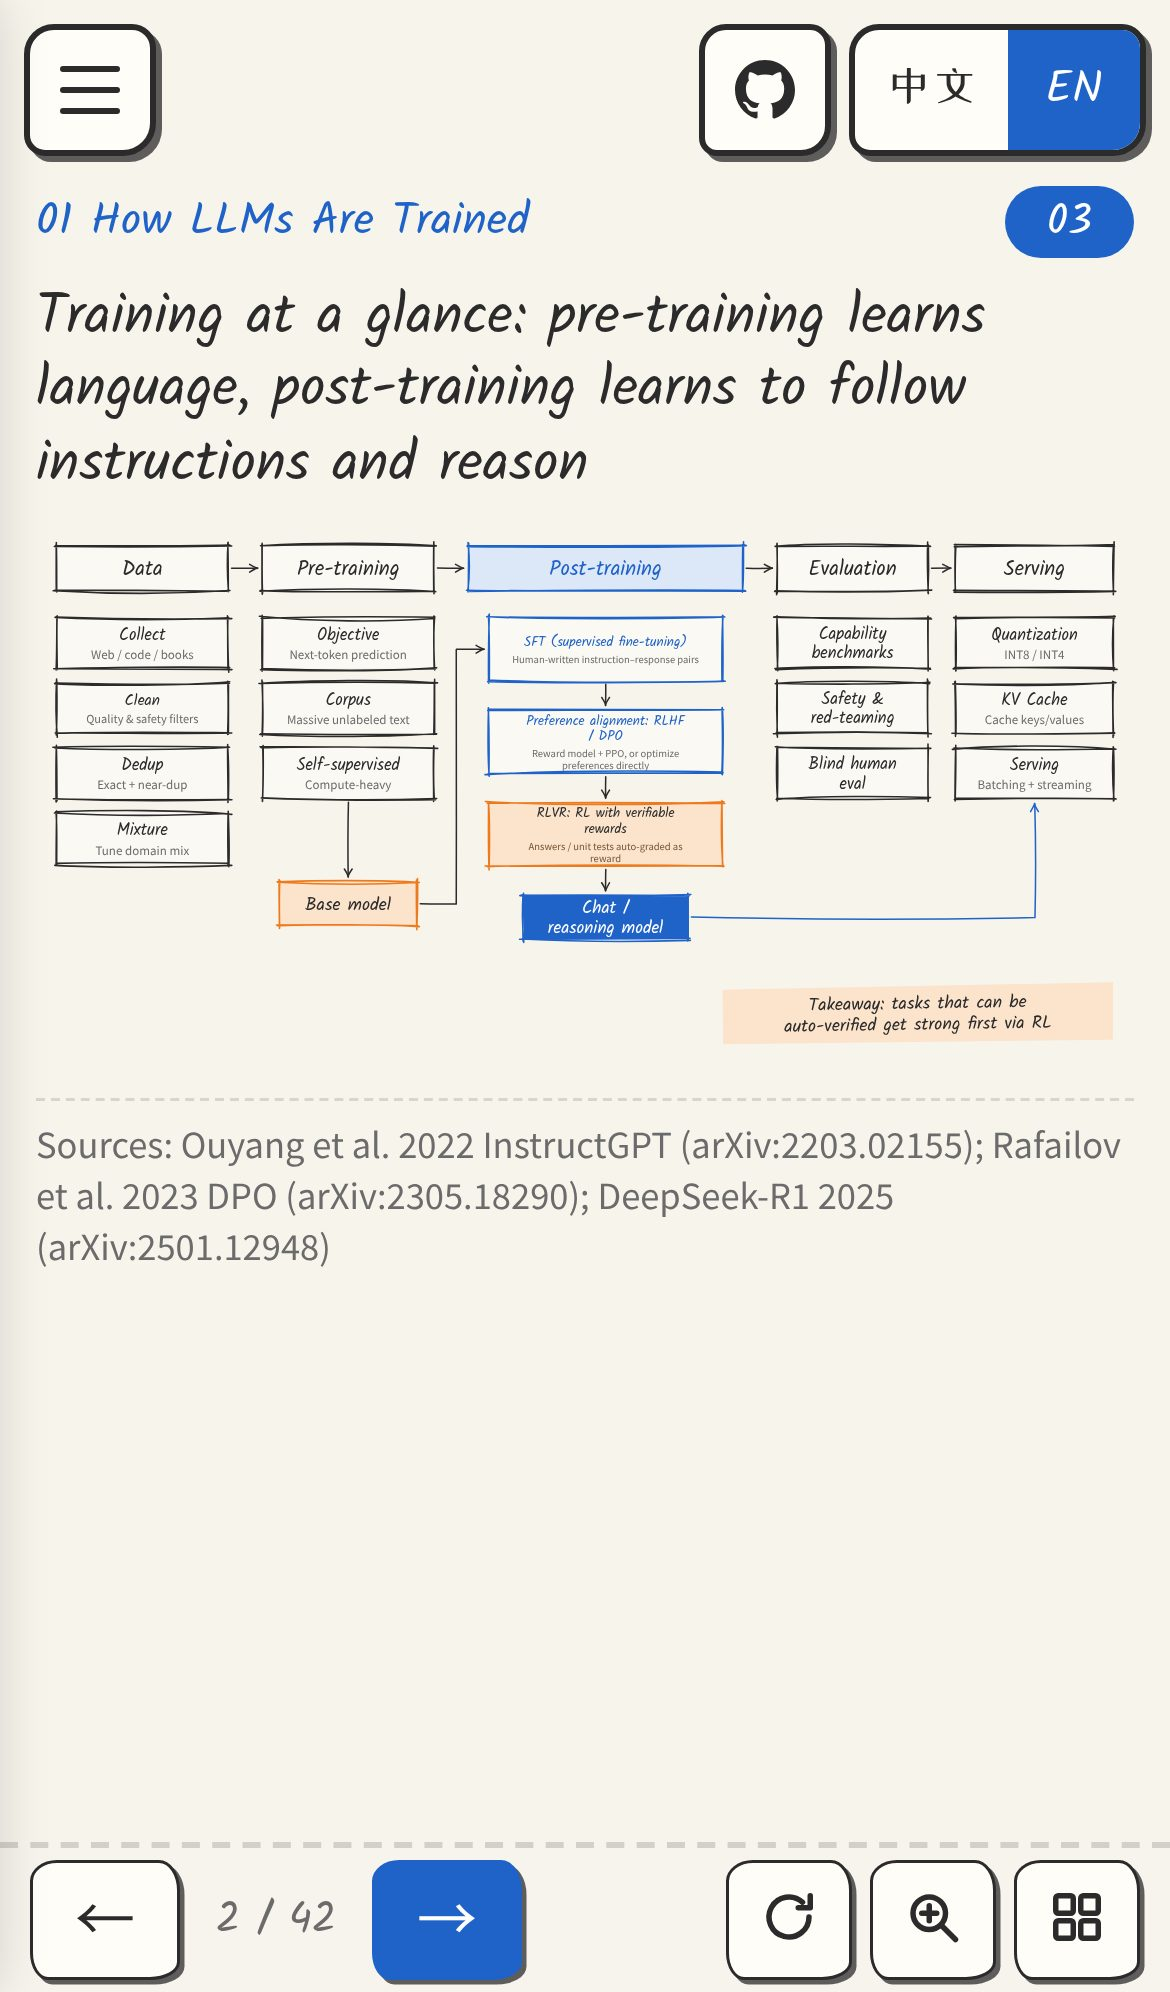
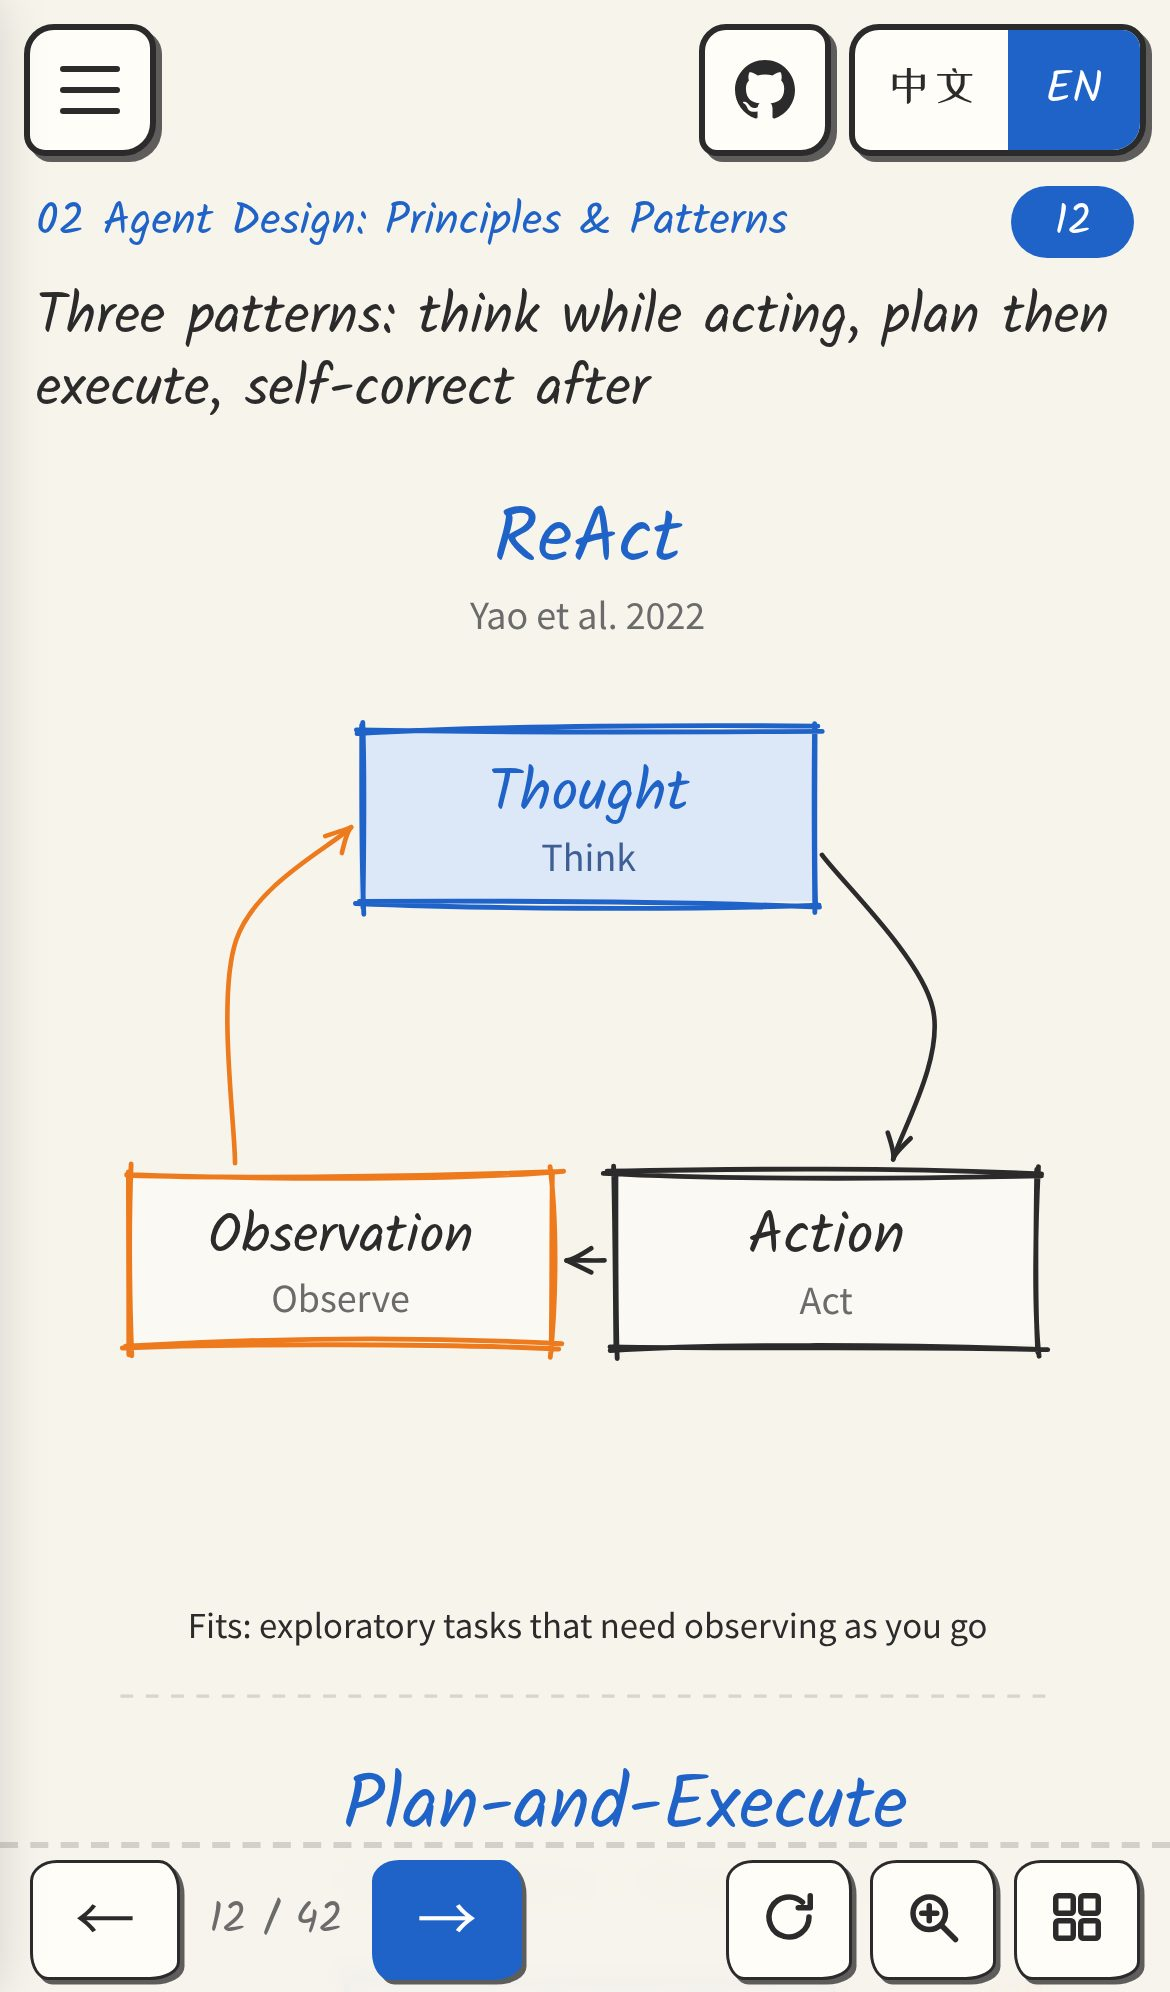
Mobile: portrait diagram reflow, zoom reset/double-tap/pan clamp, block page pinch

diff --git a/assets/atlas.js b/assets/atlas.js
@@ -1021,8 +1021,15 @@ window.addEventListener('DOMContentLoaded',()=>{
   sw($('main'),d=>{if(mq.matches)go(cur+d);});
   const st=$('stage'),oc=st.onclick;st.onclick=e=>{if(Date.now()-(+$('main').dataset.swiped||0)<400)return;oc&&oc(e);};
   new MutationObserver(()=>body.classList.toggle('zopen',!$('zoomer').hidden)).observe($('zoomer'),{attributes:true});
-  const fixCover=()=>{const s=$('stage').querySelector('svg');if(s&&P[cur].div)s.setAttribute('viewBox',mq.matches?'110 140 1400 440':'0 0 1600 800');};
-  new MutationObserver(fixCover).observe($('stage'),{childList:true});fixCover();mq.addEventListener('change',fixCover);
+  const pq=matchMedia('(max-width:600px) and (orientation:portrait)');
+  const pn=document.createElement('div');pn.id='pnote';$('stage').after(pn);
+  const fixCover=()=>{const s=$('stage').querySelector('svg');if(!s)return;if(!s.dataset.p)pn.textContent='';body.classList.toggle('portrait',pq.matches);
+    if(P[cur].div){if(!mq.matches){s.setAttribute('viewBox','0 0 1600 800');return;}
+      if(pq.matches){document.fonts.ready.then(()=>{const b=s.getBBox();s.setAttribute('viewBox',`${b.x-30} ${b.y-30} ${b.width+60} ${b.height+60}`);});}
+      else s.setAttribute('viewBox','110 140 1400 440');return;}
+    if(pq.matches&&!s.dataset.p)document.fonts.ready.then(()=>{if(s.isConnected&&!s.dataset.p)portraitize(s);});};
+  new MutationObserver(fixCover).observe($('stage'),{childList:true});fixCover();
+  const reflow=()=>{go(cur,false);};mq.addEventListener('change',reflow);pq.addEventListener('change',reflow);
   const AR={prev:['上一张','Previous'],next:['下一张','Next'],replay:['重播动画','Replay animation'],zoom:['放大','Zoom'],ov:['总览','Overview']};
   const aria=()=>{for(const k in AR){const e=$(k);e.setAttribute('aria-label',AR[k][LANG==='en'?1:0]);e.title=AR[k][LANG==='en'?1:0];}};
   aria();document.querySelectorAll('.lang button').forEach(b=>b.addEventListener('click',aria));
@@ -1032,6 +1039,63 @@ window.addEventListener('DOMContentLoaded',()=>{
   zv.addEventListener('pointermove',e=>{if(!pts.has(e.pointerId))return;pts.set(e.pointerId,[e.clientX,e.clientY]);
     if(pts.size===2&&pinch){e.stopImmediatePropagation();const[a,b]=[...pts.values()],d=Math.hypot(a[0]-b[0],a[1]-b[1]),r=zv.getBoundingClientRect();
       zoomAt(d/pinch.d,(a[0]+b[0])/2-r.left,(a[1]+b[1])/2-r.top);pinch.d=d;}},true);
-  const up=e=>{pts.delete(e.pointerId);if(pts.size<2)pinch=null;};
+  const fitS=()=>{const v=zv.getBoundingClientRect();return Math.min(v.width/1600,v.height/800)*0.96;};
+  const _apply=applyZ;applyZ=function(){if(mq.matches){const v=zv.getBoundingClientRect(),w=1600*z.s,h=800*z.s,m=60;
+      z.x=w<=v.width?(v.width-w)/2:Math.min(m,Math.max(v.width-w-m,z.x));z.y=h<=v.height?(v.height-h)/2:Math.min(m,Math.max(v.height-h-m,z.y));}_apply();};
+  const toggle=(cx,cy)=>{if(z.s>fitS()*1.05)fitZ();else zoomAt(2.5,cx,cy);};
+  let lastTap=0,tapPos=null,lastToggle=0;
+  zv.addEventListener('pointerup',e=>{if(!mq.matches||e.pointerType==='mouse')return;const now=Date.now(),r=zv.getBoundingClientRect(),p=[e.clientX-r.left,e.clientY-r.top];
+    if(now-lastTap<320&&tapPos&&Math.hypot(p[0]-tapPos[0],p[1]-tapPos[1])<30){toggle(p[0],p[1]);lastToggle=now;lastTap=0;}else{lastTap=now;tapPos=p;}},true);
+  zv.addEventListener('dblclick',e=>{if(!mq.matches)return;e.stopImmediatePropagation();if(Date.now()-lastToggle<500)return;const r=zv.getBoundingClientRect();toggle(e.clientX-r.left,e.clientY-r.top);},true);
+  $('zr').onclick=()=>fitZ();
+  const _close=closeZoom;closeZoom=function(){_close();if(mq.matches)fitZ();};
+  $('zx').onclick=closeZoom;
+  document.addEventListener('gesturestart',e=>{if(mq.matches&&!e.target.closest('#zview'))e.preventDefault();});
+  const up=e=>{pts.delete(e.pointerId);if(pts.size<2){if(pinch&&mq.matches&&z.s<fitS())fitZ();pinch=null;}};
   zv.addEventListener('pointerup',up,true);zv.addEventListener('pointercancel',up,true);
 });
+
+/* ---- portrait reflow: guillotine-cut the diagram into tiles and stack them ---- */
+function portraitize(svg){
+  const W=520,PAD=12,GAP=22;
+  const notes=[...svg.querySelectorAll(':scope>g.note')];
+  const pn=document.getElementById('pnote');
+  pn.textContent=notes.map(n=>[...n.querySelectorAll('text')].map(t=>t.textContent).join(LANG==='en'?' ':'')).join('\n');
+  notes.forEach(n=>n.remove());
+  const kids=[...svg.children];const atoms=[];
+  kids.forEach(el=>{
+    if(el.classList.contains('arr')||el.tagName==='path'||el.tagName==='line')return;
+    const add=(e,blocker)=>{let b;try{b=e.getBBox();}catch(_){return;}if(!b.width&&!b.height)return;
+      if(!blocker&&b.width>700)return;atoms.push({i:atoms.length,x:b.x,y:b.y,w:b.width,h:b.height});};
+    if(el.classList.contains('frame')){el.querySelectorAll('text').forEach(t=>add(t,false));return;}
+    add(el,el.classList.contains('node'));
+  });
+  if(!atoms.length)return;
+  const ext=a=>{const x=Math.min(...a.map(t=>t.x)),y=Math.min(...a.map(t=>t.y));return{x,y,w:Math.max(...a.map(t=>t.x+t.w))-x,h:Math.max(...a.map(t=>t.y+t.h))-y};};
+  const gaps=(a,k,s)=>{const iv=a.map(t=>[t[k],t[k]+t[s]]).sort((p,q)=>p[0]-q[0]);const g=[];let e=iv[0][1];
+    for(const[p,q]of iv.slice(1)){if(p>e+6)g.push((p+e)/2);e=Math.max(e,q);}return g;};
+  const mk=a=>{const E=ext(a);E.ids=a.map(t=>t.i);return E;};
+  const cost=ts=>{const seq=ts.flatMap(t=>t.ids.slice().sort((p,q)=>p-q));let inv=0;for(let i=1;i<seq.length;i++)if(seq[i]<seq[i-1])inv++;
+    return inv*1.5+ts.length+ts.reduce((s,t)=>s+(t.w>W?(t.w/W-1)*8:0),0);};
+  function split(a,depth=0){const E=ext(a);if(E.w<=W||depth>8)return[mk(a)];
+    const opts=[];
+    const vg=gaps(a,'x','w').filter(c=>c-E.x<=W);
+    if(vg.length){const c=vg[vg.length-1];opts.push([...split(a.filter(t=>t.x+t.w/2<c),depth+1),...split(a.filter(t=>t.x+t.w/2>=c),depth+1)]);}
+    const hg=gaps(a,'y','h');
+    if(hg.length){const cuts=[-1e9,...hg,1e9],out=[];for(let i=0;i<cuts.length-1;i++){const r=a.filter(t=>t.y+t.h/2>=cuts[i]&&t.y+t.h/2<cuts[i+1]);if(r.length)out.push(...split(r,depth+1));}opts.push(out);}
+    if(!opts.length){const vg2=gaps(a,'x','w');if(vg2.length){const c=vg2[0];opts.push([...split(a.filter(t=>t.x+t.w/2<c),depth+1),...split(a.filter(t=>t.x+t.w/2>=c),depth+1)]);}}
+    if(!opts.length)return[mk(a)];
+    return opts.reduce((p,q)=>cost(q)<cost(p)?q:p);}
+  const tiles=split(atoms).map(t=>({x:t.x-PAD,y:t.y-PAD,w:t.w+2*PAD,h:t.h+2*PAD}));
+  tiles.forEach(t=>{t.s=Math.min(1,W/t.w);t.dw=t.w*t.s;t.dh=t.h*t.s;});
+  const rows=[];let row=[];
+  tiles.forEach(t=>{const sw=row.reduce((s,q)=>s+q.dw,0)+GAP*row.length;if(row.length&&sw+t.dw<=W)row.push(t);else{if(row.length)rows.push(row);row=[t];}});
+  if(row.length)rows.push(row);
+  const inner=svg.innerHTML;let y=0,out='',defs='',k=0;const uid='p'+Math.random().toString(36).slice(2,7);
+  rows.forEach((r,ri)=>{const rw=r.reduce((s,q)=>s+q.dw,0)+GAP*(r.length-1),rh=Math.max(...r.map(q=>q.dh));let x=(W-rw)/2;
+    if(ri)out+=`<path d="M40 ${y-GAP/2}H${W-40}" stroke="#2B2B2B" stroke-opacity=".15" stroke-width="1.5" stroke-dasharray="6 6"/>`;
+    r.forEach(t=>{const id=uid+(k++);defs+=`<clipPath id="${id}" clipPathUnits="userSpaceOnUse"><rect x="${t.x}" y="${t.y}" width="${t.w}" height="${t.h}"/></clipPath>`;
+      out+=`<g transform="translate(${x} ${y+(rh-t.dh)/2}) scale(${t.s}) translate(${-t.x} ${-t.y})" data-s="${t.s}"><g clip-path="url(#${id})">${inner}</g></g>`;x+=t.dw+GAP;});
+    y+=rh+GAP;});
+  svg.dataset.p=1;svg.setAttribute('viewBox',`0 0 ${W} ${y-GAP}`);svg.innerHTML=`<defs>${defs}</defs>`+out;
+}

diff --git a/assets/style.css b/assets/style.css
@@ -115,7 +115,7 @@ html[lang=en] #title{letter-spacing:0}
 #overview{padding-top:56px}
 
 /* ===== mobile / tablet (desktop >=1024px untouched) ===== */
-#menu,#backdrop{display:none}
+#menu,#backdrop,#zr{display:none}
 @media (max-width:1023px){
  html,body{height:auto;min-height:100%}
  body{display:block;overflow-x:hidden;overflow-y:auto}
@@ -138,7 +138,7 @@ html[lang=en] #title{letter-spacing:0}
  #kick{font-size:15px}
  .pg{font-size:14px;padding:1px 14px;min-width:0}
  #title{font-size:clamp(18px,4.8vw,26px);letter-spacing:0;margin:8px 0 8px;line-height:1.3}
- #stage{width:100%;aspect-ratio:2/1;height:auto;flex:none;touch-action:pan-y pinch-zoom;cursor:pointer}
+ #stage{width:100%;aspect-ratio:2/1;height:auto;flex:none;touch-action:pan-y;cursor:pointer}
  #stage svg{height:auto}
  #src{font-size:11.5px;line-height:1.5;word-break:break-word;overflow-wrap:anywhere;margin-top:8px}
  .ctrl{position:fixed;left:0;right:0;bottom:0;z-index:55;flex-wrap:nowrap;gap:6px;align-items:center;padding:4px 10px calc(4px + env(safe-area-inset-bottom));background:rgba(247,244,236,.96);border-top:2px dashed rgba(43,43,43,.18);min-height:46px;backdrop-filter:blur(4px)}
@@ -157,7 +157,13 @@ html[lang=en] #title{letter-spacing:0}
  .zbar{flex-wrap:wrap;gap:6px;padding:8px 10px!important}
  .zbar .zt{flex-basis:100%;font-size:16px;min-height:36px;display:block;white-space:nowrap;overflow:hidden;text-overflow:ellipsis}
  body.zopen #topbar,body.zopen #menu{display:none}
- #zfs{display:none!important}
+ #zfs,#zf,#zm{display:none!important}
+ #zr{display:inline-flex}
+ html{touch-action:pan-x pan-y}
+ body.portrait #stage{aspect-ratio:auto}
+ #pnote{display:none}
+ body.portrait #pnote:not(:empty){display:block;white-space:pre-line;margin:12px 4px 4px;padding:10px 14px;background:var(--orangeT);font-family:var(--fh);font-size:16px;line-height:1.45;border-radius:4px 10px 6px 12px;transform:rotate(-.4deg)}
+ body.portrait #stage svg{width:100%;height:auto;max-height:none}
  .zbar .btn{flex:1;padding:0 4px}
  #zview{touch-action:none}
  .zhint{display:none}

diff --git a/index.html b/index.html
@@ -21,7 +21,7 @@
  <div class="ctrl"><button class="btn" id="prev" data-en="← Prev">← 上一张</button><span id="count" style="font-family:var(--fl);color:var(--muted)"></span><button class="btn pri" id="next" data-en="Next →">下一张 →</button><span class="sp"></span>
  <button class="btn" id="replay" data-en="Replay">重播动画</button><button class="btn" id="zoom" data-en="Zoom">放大</button><button class="btn" id="fs" data-en="Fullscreen">全屏</button><button class="btn" id="ov" data-en="Overview">总览</button></div>
 </main>
-<div id="zoomer" hidden><div class="zbar"><div class="zt" id="zt"></div><button class="btn" id="zprev">←</button><button class="btn" id="znext">→</button><button class="btn" id="zm">−</button><button class="btn" id="zp">＋</button><button class="btn" id="zf" data-en="Fit">适应</button><button class="btn" id="zfs" data-en="Fullscreen">全屏</button><button class="btn pri" id="zx" data-en="Close">关闭</button></div>
+<div id="zoomer" hidden><div class="zbar"><div class="zt" id="zt"></div><button class="btn" id="zprev">←</button><button class="btn" id="znext">→</button><button class="btn" id="zm">−</button><button class="btn" id="zp">＋</button><button class="btn" id="zr" data-en="Reset">复原</button><button class="btn" id="zf" data-en="Fit">适应</button><button class="btn" id="zfs" data-en="Fullscreen">全屏</button><button class="btn pri" id="zx" data-en="Close">关闭</button></div>
  <div id="zview"><div id="zinner"></div><div class="zhint" data-en="Wheel to zoom · drag to pan · double-click to zoom in · Esc to close">滚轮缩放 · 拖拽平移 · 双击放大 · Esc 关闭</div></div></div>
 <div id="overview" hidden></div>
 <script src="assets/atlas.js"></script>

diff --git a/README.md b/README.md
@@ -18,7 +18,7 @@ A hand-drawn style, bilingual (English / 中文) atlas of AI-native software eng
 - **Bilingual toggle:** 中文 / EN switch in the top-right corner. The default follows your browser language, your choice is remembered, and it is reflected in the URL (`?lang=en|zh`).
 - **Hand-drawn diagrams:** sketch-style inline SVG with animated arrows. Click any diagram to zoom and pan.
 - **Keyboard shortcuts:** `←` `→` page · `Enter` zoom · `F` fullscreen · `G` overview grid · `R` replay animation · `Esc` close.
-- **Mobile friendly:** on phones and tablets the sidebar becomes a drawer (☰), diagrams scale to the screen width, you swipe left/right to change pages, pinch or tap a diagram to zoom, and every button is a ≥44px touch target. The desktop layout is unchanged.
+- **Mobile friendly:** on phones and tablets the sidebar becomes a drawer (☰), diagrams reflow into a top-to-bottom portrait layout on phones held upright (takeaways become text cards), you swipe left/right to change pages, tap a diagram to open the zoom view (pinch, double-tap to toggle fit/zoom, a Reset button), and every button is a ≥44px touch target. The desktop layout is unchanged.
 - **Deep links:** `#12` opens diagram 12, `#ch3` opens the chapter 3 cover, e.g. [`?lang=en#ch3`](https://davinqi.github.io/ai-atlas/?lang=en#ch3). Add `&static` to disable animations.
 
 ## Screenshots

diff --git a/README.zh-CN.md b/README.zh-CN.md
@@ -18,7 +18,7 @@
 - **中英切换**：右上角 中文 / EN 按钮。默认跟随浏览器语言，记住你的选择，并同步到网址（`?lang=zh|en`）。
 - **手绘风图示**：草图风格的 SVG，箭头带动画；点击图可放大、拖拽平移。
 - **快捷键**：`←` `→` 翻页 · `Enter` 放大 · `F` 全屏 · `G` 总览 · `R` 重播动画 · `Esc` 关闭。
-- **适配手机**：在手机和平板上，侧栏变成抽屉菜单（☰），图自动缩放到屏幕宽度，左右滑动翻页，双指或点击图可放大，按钮触控区域都不小于 44px。桌面版样式保持不变。
+- **适配手机**：在手机和平板上，侧栏变成抽屉菜单（☰），竖屏手机上图会自动改成从上到下的竖版排布（启示改为文字卡片），左右滑动翻页，点击图进入放大层（双指缩放、双击切换适应/放大、「复原」按钮），按钮触控区域都不小于 44px。桌面版样式保持不变。
 - **深链接**：`#12` 直达第 12 张图，`#ch3` 直达第 3 章章节页，例如 [`?lang=zh#ch3`](https://davinqi.github.io/ai-atlas/?lang=zh#ch3)；加 `&static` 可关闭动画。
 
 ## 截图
